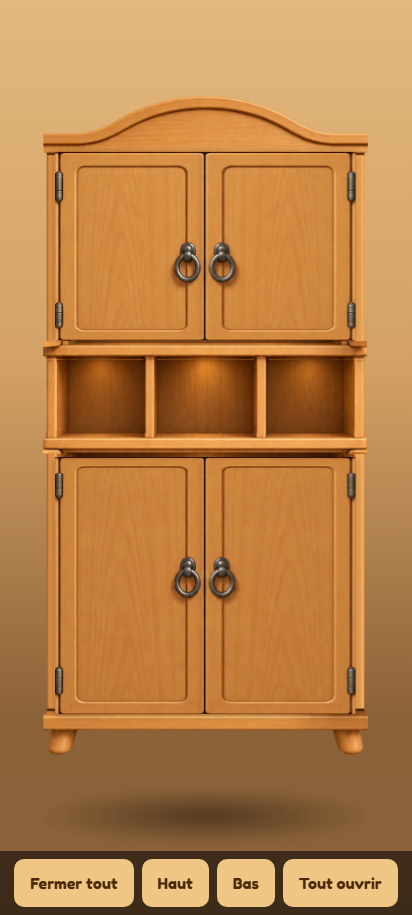
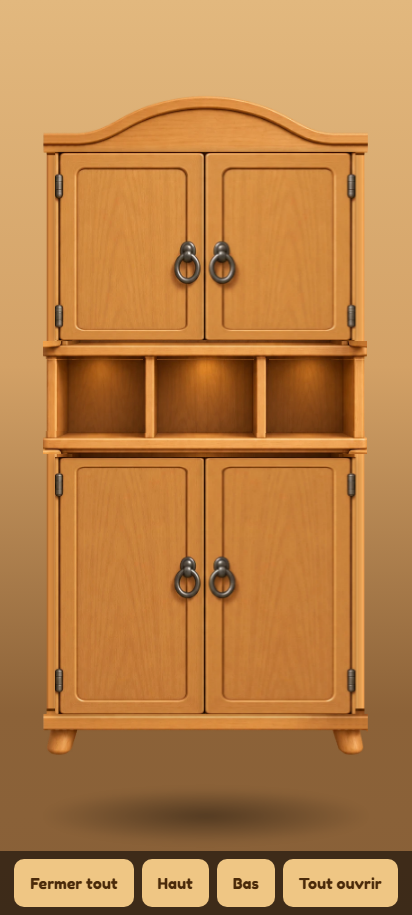
fix(accueil): armoire v8, gonds du vantail ferme = position et taille des gonds du vantail ouvert, page de dev sans cache (HO-MJ-20)
Le "toujours tronque" venait d'un armoire-kit.js perime en cache (boite
courte) avec le sprite neuf : la page de dev horodate scripts et CSS. Le
remappage du vantail ferme aligne les quatre bords des canons, plus
seulement leurs centres : ecart residuel 1 px.

diff --git a/site/js/gen/armoire-kit.js b/site/js/gen/armoire-kit.js
@@ -1,3 +1,3 @@
 // GENERE par studio/minijeux/tools/armoire-v8.py -- ne pas editer.
 // Boites en % du repere 911x1480, mesurees sur docs/refs/armoire/ref-ouverte.png.
-window.ARMOIRE_KIT = {"frame":{"x":30,"y":10,"w":911,"h":1480},"source":"ref-ouverte.png","pieces":{"shell":{"size":[911,1480],"box":{"x":0.0,"y":0.0,"w":100.0,"h":100.0}},"planche-1":{"size":[596,44],"box":{"x":17.124,"y":23.649,"w":65.423,"h":2.973}},"planche-2":{"size":[716,40],"box":{"x":10.538,"y":37.432,"w":78.595,"h":2.703}},"planche-3":{"size":[716,50],"box":{"x":10.538,"y":50.811,"w":78.595,"h":3.378}},"planche-4":{"size":[596,50],"box":{"x":17.124,"y":63.784,"w":65.423,"h":3.378}},"planche-5":{"size":[596,38],"box":{"x":17.124,"y":79.459,"w":65.423,"h":2.568}},"montant-1":{"size":[32,166],"box":{"x":34.687,"y":39.865,"w":3.513,"h":11.216}},"montant-2":{"size":[32,166],"box":{"x":61.69,"y":39.865,"w":3.513,"h":11.216}},"tiroir":{"size":[294,160],"box":{"x":16.026,"y":81.892,"w":32.272,"h":10.811},"box_droite":{"x":48.957,"y":81.892,"w":32.272,"h":10.811}},"porte-ouverte-haut":{"size":[162,542],"box":{"x":0.0,"y":3.243,"w":17.783,"h":36.622},"box_droite":{"x":81.888,"y":3.243,"w":17.783,"h":36.622}},"porte-ouverte-bas":{"size":[162,674],"box":{"x":0.0,"y":53.108,"w":17.783,"h":45.541},"box_droite":{"x":81.888,"y":53.108,"w":17.783,"h":45.541}},"porte-haut":{"size":[333,416],"box":{"x":13.282,"y":9.189,"w":36.553,"h":28.108},"box_droite":{"x":49.835,"y":9.189,"w":36.553,"h":28.108},"charniere":0.0251},"porte-bas":{"size":[333,568],"box":{"x":13.282,"y":54.662,"w":36.553,"h":38.378},"box_droite":{"x":49.835,"y":54.662,"w":36.553,"h":38.378},"charniere":0.0251}},"version":"d2f37e24"};
+window.ARMOIRE_KIT = {"frame":{"x":30,"y":10,"w":911,"h":1480},"source":"ref-ouverte.png","pieces":{"shell":{"size":[911,1480],"box":{"x":0.0,"y":0.0,"w":100.0,"h":100.0}},"planche-1":{"size":[596,44],"box":{"x":17.124,"y":23.649,"w":65.423,"h":2.973}},"planche-2":{"size":[716,40],"box":{"x":10.538,"y":37.432,"w":78.595,"h":2.703}},"planche-3":{"size":[716,50],"box":{"x":10.538,"y":50.811,"w":78.595,"h":3.378}},"planche-4":{"size":[596,50],"box":{"x":17.124,"y":63.784,"w":65.423,"h":3.378}},"planche-5":{"size":[596,38],"box":{"x":17.124,"y":79.459,"w":65.423,"h":2.568}},"montant-1":{"size":[32,166],"box":{"x":34.687,"y":39.865,"w":3.513,"h":11.216}},"montant-2":{"size":[32,166],"box":{"x":61.69,"y":39.865,"w":3.513,"h":11.216}},"tiroir":{"size":[294,160],"box":{"x":16.026,"y":81.892,"w":32.272,"h":10.811},"box_droite":{"x":48.957,"y":81.892,"w":32.272,"h":10.811}},"porte-ouverte-haut":{"size":[162,542],"box":{"x":0.0,"y":3.243,"w":17.783,"h":36.622},"box_droite":{"x":81.888,"y":3.243,"w":17.783,"h":36.622}},"porte-ouverte-bas":{"size":[162,674],"box":{"x":0.0,"y":53.108,"w":17.783,"h":45.541},"box_droite":{"x":81.888,"y":53.108,"w":17.783,"h":45.541}},"porte-haut":{"size":[333,416],"box":{"x":13.282,"y":9.189,"w":36.553,"h":28.108},"box_droite":{"x":49.835,"y":9.189,"w":36.553,"h":28.108},"charniere":0.0251},"porte-bas":{"size":[333,568],"box":{"x":13.282,"y":54.662,"w":36.553,"h":38.378},"box_droite":{"x":49.835,"y":54.662,"w":36.553,"h":38.378},"charniere":0.0251}},"version":"534cb15a"};

diff --git a/site/dev-armoire.html b/site/dev-armoire.html
@@ -74,9 +74,22 @@ body { background:linear-gradient(180deg, #e2b87e 0%, #d3a166 40%, #8c6238 78%, 
   <button type="button" data-action="ouvrir">Tout ouvrir</button>
 </div>
 
-<link rel="stylesheet" href="css/armoire-meuble.css">
-<script src="js/gen/armoire-kit.js"></script>
-<script src="js/armoire-meuble.js"></script>
+<script>
+// idem pour la feuille de style (un CSS perime rendait le tiroir a sa taille native)
+document.write('<link rel="stylesheet" href="css/armoire-meuble.css?t=' + Date.now() + '">');
+</script>
+<script>
+// Page de DEV : les deux scripts sont charges avec un horodatage, jamais depuis
+// un cache — un armoire-kit.js perime (boites d'avant) avec des sprites a jour
+// ecrasait le vantail bas dans une boite trop courte (recette PY). Sur
+// l'accueil reel, c'est le service worker qui versionne.
+(function () {
+  var t = Date.now();
+  ['js/gen/armoire-kit.js', 'js/armoire-meuble.js'].forEach(function (src) {
+    document.write('<script src="' + src + '?t=' + t + '"><\/script>');
+  });
+})();
+</script>
 <script>
 (function () {
   var root = document.getElementById('armoire');

diff --git a/studio/minijeux/tools/armoire-v8.py b/studio/minijeux/tools/armoire-v8.py
@@ -221,9 +221,10 @@ HINGE_AXIS_F = 154.5   # axe des charnieres (milieu de 146..163) sur ref-fermee
 # est remappe verticalement par bandes (lineaire par morceaux) pour que ses
 # centres de charnieres tombent sur ceux du vantail ouvert, bords conserves.
 # Mesures (pixels, colonnes de metal gris) : voir rapport § 13.
-HINGES = {  # (y source fermee, y cible ouverte) des centres de charnieres
-    'porte-haut': [(225.5, 216.0), (499.0, 514.0)],
-    'porte-bas': [(949.0, 873.0), (1358.5, 1318.0)],
+HINGES = {  # (y0, y1) de CHAQUE charniere : source ref-fermee -> cible ref-ouverte
+    # (bords haut et bas du canon, pixels gris metal) : position ET taille
+    'porte-haut': [((194, 257), (196, 243)), ((468, 530), (485, 531))],
+    'porte-bas': [((917, 981), (856, 903)), ((1326, 1391), (1287, 1336))],
 }
 
 
@@ -249,8 +250,13 @@ for name, (fy0, fy1) in DOORS_F.items():
     ox0, oy0 = f2o(DOOR_X0, fy0)
     ox1, oy1 = f2o(DOOR_MID, fy1)
     leaf = leaf.resize((int(round(ox1 - ox0)), int(round(oy1 - oy0))), Image.LANCZOS)
-    src_pts = [0.0] + [f2o(0, hy)[1] - oy0 for hy, _ in HINGES[name]] + [oy1 - oy0]
-    dst_pts = [0.0] + [ty - oy0 for _, ty in HINGES[name]] + [oy1 - oy0]
+    src_pts = [0.0]
+    dst_pts = [0.0]
+    for (sa, sb), (ta, tb) in HINGES[name]:
+        src_pts += [f2o(0, sa)[1] - oy0, f2o(0, sb)[1] - oy0]
+        dst_pts += [ta - oy0, tb - oy0]
+    src_pts.append(oy1 - oy0)
+    dst_pts.append(oy1 - oy0)
     leaf = remap_rows(leaf, src_pts, dst_pts)
     leaf.save(os.path.join(OUT, name + '.webp'), 'WEBP', quality=Q, method=6)
     b = (int(round(ox0)), int(round(ox1)), int(round(oy0)), int(round(oy1)))

diff --git a/studio/minijeux/docs/handoffs/rapports/HO-MJ-20-rapport.md b/studio/minijeux/docs/handoffs/rapports/HO-MJ-20-rapport.md
@@ -564,3 +564,10 @@ Recette Papa Yann (captures Brave) : (1) charnières invisibles portes fermées 
 
 Spec vert, captures régénérées, zooms relus : bas du vantail entier, charnières fermées visibles et à la même hauteur qu'ouvertes.
 
+## 14. Passe 7 (Fable, 2026-09-20) — gonds identiques, scripts de dev sans cache
+
+Recette Papa Yann : bas des vantaux « toujours tronqué », gonds ni de la même taille ni à la même place.
+
+- **Tronqué** : pas le sprite — le navigateur gardait l'ancien `js/gen/armoire-kit.js` (boîte du vantail bas de 42,97 % de haut) et chargeait le nouveau sprite (versionné) dedans : écrasé, il finissait pile au socle. `dev-armoire.html` charge maintenant ses deux scripts ET son CSS avec un horodatage (`?t=`), jamais depuis un cache. Le CSS aussi : un CSS périmé rendait le tiroir à sa taille native dans le navigateur de Claude.
+- **Gonds** : le remappage n'alignait que les centres. Il aligne désormais les quatre bords (haut et bas de chaque canon) : le vantail fermé prend la position ET la taille des gonds du vantail ouvert. Mesuré sur les sprites finaux (pixels gris métal, repère 911 × 1480) : haut 187–233 / 476–520 des deux côtés ; bas 847–894 / 1279–1327 contre 846–894 / 1278–1327.
+
